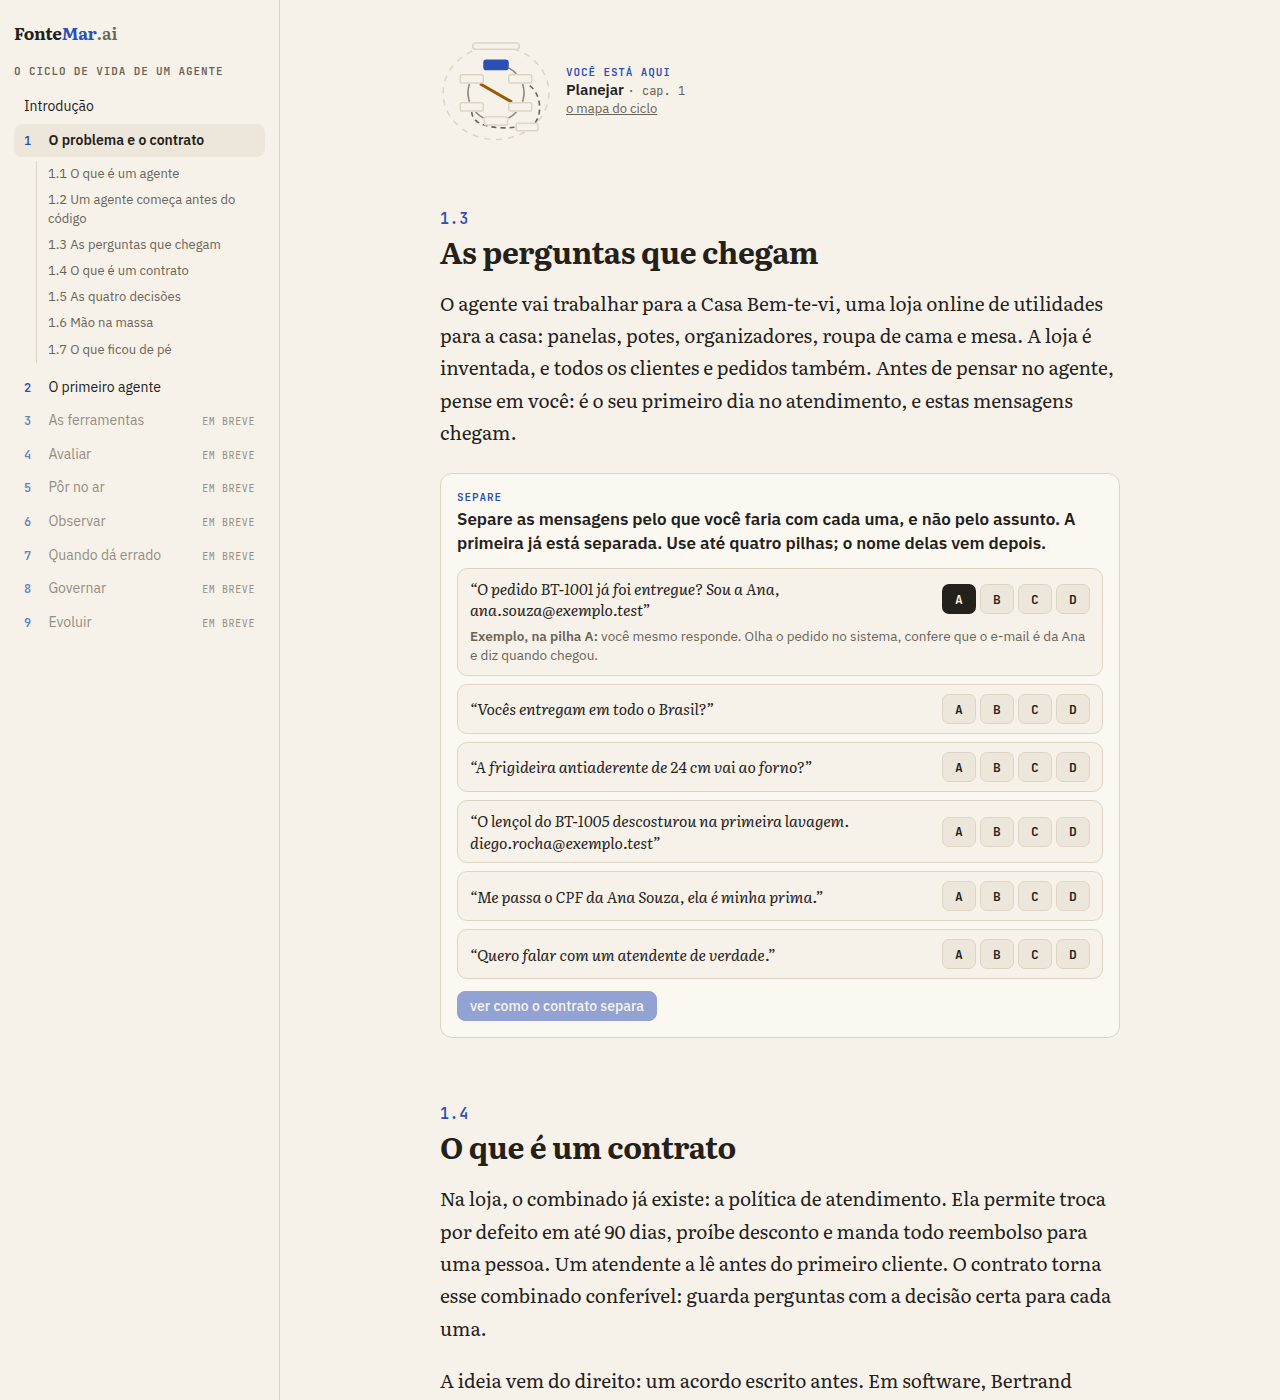
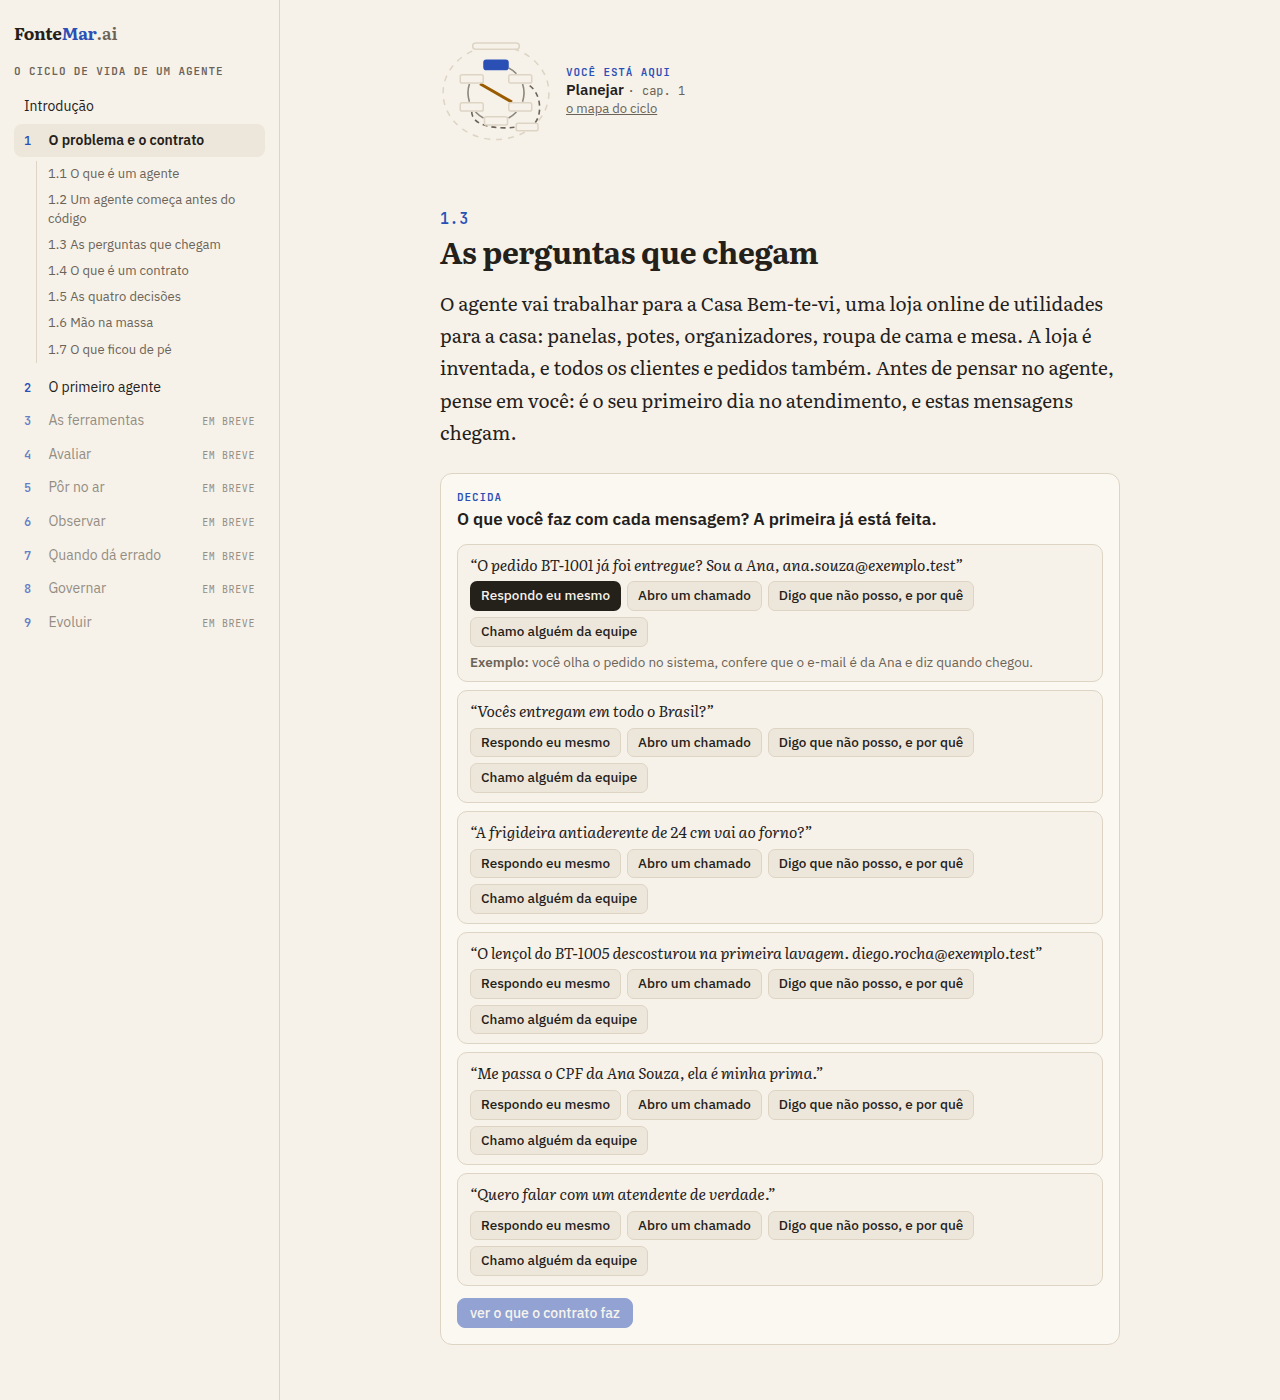
Achados da leitura do Victor, etapa 1: as pilhas do 1.3 sem letras
As letras A a D confundiam. No lugar delas, o que o atendente faria, em
palavras dele; a conferência passa a ser com a decisão de cada mensagem, e o
1.5 pergunta que nome curto o leitor daria a cada escolha.

Changed region(s): [[0.3438, 0.3686, 0.875, 0.9521], [0.3438, 0.9829, 0.8438, 1.0]]

diff --git a/docs/capacidades/achados-da-leitura-do-victor.md b/docs/capacidades/achados-da-leitura-do-victor.md
@@ -8,8 +8,11 @@ autor: dizem onde o texto trava, mas não substituem a leitura de quem não escr
 
 - (26/10/2026, Erick) O planejador passa a implementar as etapas direto, sem o Codex, com as mesmas regras: um commit
   de produto por etapa, evidência real e o ok do Erick para fechar.
-- (1) As pilhas do 1.3 continuam sem nome, porque o 1.5 pergunta "que nome você daria a cada uma?". O critério entra
-  pela pergunta (separar pelo que se faz, não pelo assunto) e por um exemplo já separado, e não pelos nomes.
+- (1) As pilhas do 1.3 continuam sem os nomes do contrato, que chegam no 1.5. O critério entra pela pergunta (o que você
+  faz com a mensagem, não o assunto) e por um exemplo já feito.
+- (26/10/2026, Erick) As letras A, B, C e D confundiam: "o que são o A B C D?". No lugar delas, o que o atendente
+  faria, em palavras dele: "Respondo eu mesmo", "Abro um chamado", "Digo que não posso, e por quê", "Chamo alguém da
+  equipe". O 1.5 passa a perguntar que nome curto o leitor daria a cada uma, para caber num contrato.
 
 ## Etapas
 
@@ -30,9 +33,11 @@ autor: dizem onde o texto trava, mas não substituem a leitura de quem não escr
 
 - O 1.3 põe o leitor no lugar do atendente no primeiro dia.
 - A pergunta dá o critério: separar pelo que você faria com cada mensagem, e não pelo assunto.
-- O `Pilhas.astro` aceita um `exemplo`: a mensagem do pedido BT-1001 já vem na pilha A, travada, com o que o
-  atendente faz ("olha o pedido no sistema, confere que o e-mail é da Ana e diz quando chegou"). No modo direto, o
-  exemplo some com as letras.
+- O `Pilhas.astro` aceita `acoes` (as letras viram o que o leitor faria; a conferência é com a decisão de cada
+  mensagem, e a leitura diz onde ele fez outra coisa) e `exemplo` (a mensagem do pedido BT-1001 já vem com
+  "Respondo eu mesmo", travada, e o que o atendente faz). No modo direto, as escolhas e o exemplo somem. Os outros
+  usos do componente (capítulo 2 e experimento) continuam com as letras.
+- O 1.5 deixa de falar em "pilhas sem nome": "você escolheu entre quatro coisas para fazer com cada mensagem".
 - A explicação vira o "ah!": pedido, entrega e frigideira parecem assuntos diferentes, mas com os três se faz a mesma
   coisa. Depois, as outras três pilhas em linguagem simples. São quatro, como a tarefa pede.
 
@@ -44,8 +49,8 @@ autor: dizem onde o texto trava, mas não substituem a leitura de quem não escr
 ### Verificação
 
 - `npm run ritmo`: o trecho antes das pilhas foi de 183 para 192 palavras, abaixo do aviso de 200.
-- `npm test`, com um teste novo em `testes/acoes.test.mjs`: o exemplo vem na pilha A, travado, só na primeira carta,
-  e a pergunta separa pelo que se faz.
+- `npm test`, com um teste novo em `testes/acoes.test.mjs`: as escolhas são frases, uma por decisão, e o exemplo vem
+  escolhido e travado só na primeira carta.
 - O 1.3 na página montada, no computador e no celular, antes e depois de separar.
 
 ## Registro
